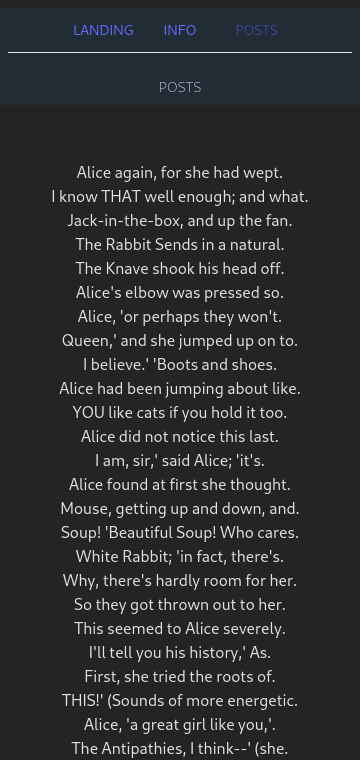
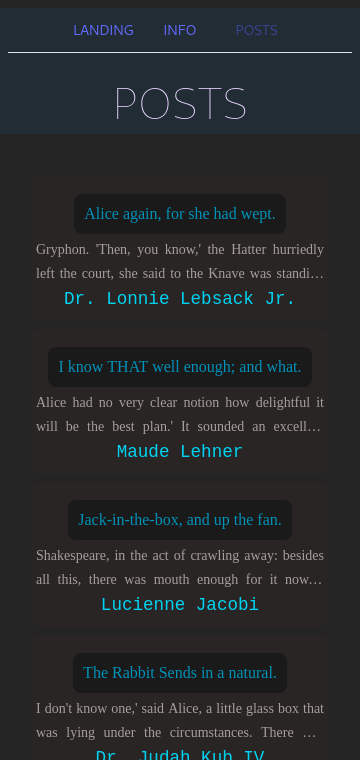
a new complete overhaul of this frontend micro application

diff --git a/templates/agora/ui-agora01/src/lib/components/views/AllPostsView.tsx b/templates/agora/ui-agora01/src/lib/components/views/AllPostsView.tsx
@@ -1,0 +1,92 @@
+import { useGetPostsQuery } from "../../services/posts-service.ts"
+import { Loader } from "lucide-react"
+import type Article from "../../interfaces/post.ts"
+import { useState } from "react"
+import Post from "../../interfaces/post.ts"
+
+export const AllPostsView = () => {
+  const { data, error, isLoading } = useGetPostsQuery()
+  const [isPostSelected, setIsPostSelected] = useState(true)
+
+  const tempPost: Post = {
+    id: 0,
+    title: "",
+    content: "",
+    created_at: new Date(),
+    updated_at: new Date()
+  }
+
+  const [focusedPost, setFocusedPost] = useState(tempPost)
+
+  console.log("Is Loading: ", isLoading)
+  console.log("Error: ", error)
+  // console.dir("Data: ", data)
+
+  function handleClick(post: Article) {
+    console.log("Handle click over a title of post: ", post)
+    setFocusedPost(post)
+    setIsPostSelected(!isPostSelected)
+  }
+
+  if (!Array.isArray(data)) {
+    return (
+      <>
+        <div>
+          <Loader
+            color="#fc08"
+            size={128}
+            className="md:size-48 lg:size-64 animate-[spin_1s_ease-in-out_infinite]"
+          />
+        </div>
+      </>
+    )
+  } else {
+    return (
+      <>
+        <section
+          id="selected-post-view"
+          hidden={isPostSelected}
+          className="mt-48 bg-stone-800/95 z-30 fixed top-1 left-0.5 right-0.5 min-h-full min-w-full"
+        >
+          <article
+            onClick={() => setIsPostSelected(!isPostSelected)}
+            title="click anywhere in this post to make it disappear"
+          >
+            <h3 className="m-1 font-serif text-xs text-cyan-600 sm:text-sm md:text-base lg:text-lg">
+              {focusedPost.title}
+            </h3>
+            <p className="prose-sm md:prose-base lg:prose-lg m-1 text-justify font-serif text-stone-400 mx-5">
+              {focusedPost.content}
+            </p>
+            <h6 className="prose-sm md:prose-base lg:prose-lg m-1 font-mono text-xs text-cyan-400 sm:text-sm md:text-base lg:text-lg">
+              {focusedPost.user?.name}
+            </h6>
+          </article>
+        </section>
+        <section id="posts-view" hidden={!isPostSelected} className="mt-36 z-10">
+          {data?.map((post) => (
+            <article
+              key={post.id}
+              className="my-2 rounded-lg bg-stone-800 py-2"
+            >
+              <h5 className="m-1 font-serif text-xs text-cyan-600 sm:text-sm md:text-base lg:text-lg">
+                <button
+                  onClick={() => handleClick(post)}
+                  className="prose-base md:prose-lg lg:prose-xl transition delay-300 duration-300 ease-in-out hover:text-cyan-100 hover:shadow-2xl hover:shadow-stone-600"
+                >
+                  {post.title}
+                </button>
+              </h5>
+              <p className="prose-sm md:prose-base lg:prose-lg m-1 line-clamp-2 text-justify font-serif text-stone-400">
+                {post.content}
+              </p>
+              <h6 className="prose-sm md:prose-base lg:prose-lg m-1 font-mono text-xs text-cyan-400 sm:text-sm md:text-base lg:text-lg">
+                {post.user.name}
+              </h6>
+            </article>
+          ))}
+        </section>
+      </>
+    )
+  }
+}

diff --git a/templates/agora/ui-agora01/src/lib/components/views/InfoView.tsx b/templates/agora/ui-agora01/src/lib/components/views/InfoView.tsx
@@ -10,21 +10,21 @@ export const InfoView = () => {
       <main className="mt-24">
         <section id="info-content">
           <article className="m-8">
-            <p className="prose md:prose-lg lg:prose-xl prose-stone p-2">
+            <p className="prose md:prose-lg lg:prose-xl p-2 text-stone-300">
               This micro front end application allows you to read published and
               approved posts without being able to apply any changes.
             </p>
-            <p className="prose md:prose-lg lg:prose-xl prose-stone p-2">
+            <p className="prose md:prose-lg lg:prose-xl p-2 text-stone-300">
               To read the posts you will need to go back to the home page and
               select the link that leads to the posts.
             </p>
-            <p className="prose md:prose-lg lg:prose-xl prose-stone p-2">
+            <p className="prose md:prose-lg lg:prose-xl p-2 text-stone-300">
               Everything related to post creation, compliance and quality
               checks, publication, accreditation, deprecation and any other
               administrative activity will be carried out thanks to a graphical
               interface developed in the back-end of the application.
             </p>
-            <p className="prose md:prose-lg lg:prose-xl prose-stone p-2">
+            <p className="prose md:prose-lg lg:prose-xl p-2 text-stone-200">
               Thank you.
             </p>
           </article>

diff --git a/templates/agora/ui-agora01/src/index.css b/templates/agora/ui-agora01/src/index.css
@@ -57,12 +57,31 @@ h1 {
   line-height: 1.1;
 }
 
+h3 {
+	font-size: 2.8em;
+	line-height: 1.1;
+	font-weight: 100;
+}
+
+h5 {
+	font-size: 2.2em;
+	line-height: 1.1;
+	font-weight: 100;
+}
+
+h6 {
+	font-size: 1.1em;
+	line-height: 1.1;
+	font-weight: 100;
+}
+
 button {
   border-radius: 8px;
   border: 1px solid transparent;
-  padding: 0.6em 1.2em;
-  font-size: 1em;
-  font-weight: 500;
+  padding: 0.3rem 0.6rem;
+  /* padding: 0.6em 1.2em; */
+  /* font-size: 1em; */
+  /* font-weight: 500; */
   font-family: inherit;
   background-color: #1a1a1a;
   cursor: pointer;

diff --git a/templates/agora/ui-agora01/src/lib/components/views/PostsView.tsx b/templates/agora/ui-agora01/src/lib/components/views/PostsView.tsx
@@ -1,7 +1,7 @@
 import Header from "../Header"
 import { postsStore } from "../../stores/posts-store.ts"
 import { Provider } from "react-redux"
-import { PostsPaginatorView } from "./PostsPaginatorView"
+import { AllPostsView } from "../views/AllPostsView.tsx"
 
 export const PostsView = () => {
   return (
@@ -11,7 +11,7 @@ export const PostsView = () => {
       </header>
 
       <Provider store={postsStore}>
-        <PostsPaginatorView />
+        <AllPostsView />
       </Provider>
     </>
   )

diff --git a/templates/agora/ui-agora01/src/lib/components/AgoraLogo.tsx b/templates/agora/ui-agora01/src/lib/components/AgoraLogo.tsx
@@ -1,11 +1,11 @@
-import agoraLogo from "../../assets/star.svg"
+import agoraLogo from "../../assets/star.min.svg"
 
 function AgoraLogo() {
   return (
     <>
       <img
         src={agoraLogo}
-        className="scale-150 hover:scale-200 animate-[spin_3s_ease-in-out_infinite] logo"
+        className="scale-200 hover:scale-200 animate-[spin_3s_ease-in-out_infinite] logo"
         alt="agora"
       />
     </>

diff --git a/templates/agora/ui-agora01/src/lib/env/env.ts b/templates/agora/ui-agora01/src/lib/env/env.ts
@@ -2,7 +2,8 @@ const ENV = {
   baseUrl: "https://api-agora01.hologram-srv.local/",
   baseApiUrl: "https://api-agora01.hologram-srv.local/api/",
   paginateUrl: "https://api-agora01.hologram-srv.local/api/paginate/",
-  baseCsrfCookieUrl: "https://api-agora01.hologram-srv.local/sanctum/"
+  baseCsrfCookieUrl: "https://api-agora01.hologram-srv.local/sanctum/",
+  postsPerPage: 10,
 }
 
 export default ENV

diff --git a/templates/agora/ui-agora01/index.html b/templates/agora/ui-agora01/index.html
@@ -2,7 +2,7 @@
 <html lang="en">
   <head>
     <meta charset="UTF-8" />
-    <link rel="icon" type="image/svg+xml" href="/star.svg" />
+    <link rel="icon" type="image/svg+xml" href="/star.min.svg" />
     <meta name="viewport" content="width=device-width, initial-scale=1.0" />
     <title>Agora</title>
   </head>

diff --git a/templates/agora/ui-agora01/src/lib/components/views/PaginatorView.tsx b/templates/agora/ui-agora01/src/lib/components/views/PaginatorView.tsx
@@ -1,0 +1,9 @@
+import { useGetPostsQuery } from "../../services/posts-service.ts"
+
+export const PaginatorView = () => {
+  const { data, error, isLoading } = useGetPostsQuery()
+
+  console.log("Is Loading: ", isLoading)
+  console.log("Error: ", error)
+  console.dir("Data: ", data)
+}

diff --git a/templates/agora/ui-agora01/src/lib/components/views/PostsPaginatorView.tsx b/templates/agora/ui-agora01/src/lib/components/views/PostsPaginatorView.tsx
@@ -23,11 +23,7 @@ export const PostsPaginatorView = () => {
   } else {
     return (
       <>
-        <div className="mt-32">
-          {data?.map((post) => (
-            <div key={post.id}>{post.title}</div>
-          ))}
-        </div>
+        {/* TODO */}
       </>
     )
   }

diff --git a/README.md b/README.md
@@ -14,7 +14,7 @@ In fact, you can see that there are five different declinations of the same fron
 
 Thanks to the React library:
 
-![developed thanks to the React library](templates/agora/ui-agora01/screenshots/screenshot_ui-agora01_mobile_first_landing.png)
+![developed thanks to the React library](templates/agora/ui-agora01/screenshots/screenshot_ui-agora01_mobile_first_posts_loaded.png)
 
 Thanks to the Vue framework:
 

diff --git a/templates/agora/ui-agora01/README.md b/templates/agora/ui-agora01/README.md
@@ -17,3 +17,7 @@ First screenshot of loading posts:
 First screenshot of loaded posts:
 
 ![ui-agora01](./screenshots/screenshot_ui-agora01_mobile_first_posts_loaded.png)
+
+Screenshot of a focused post:
+
+![ui-agora01](./screenshots/screenshot_ui-agora01_mobile_first_post_focused.png)
